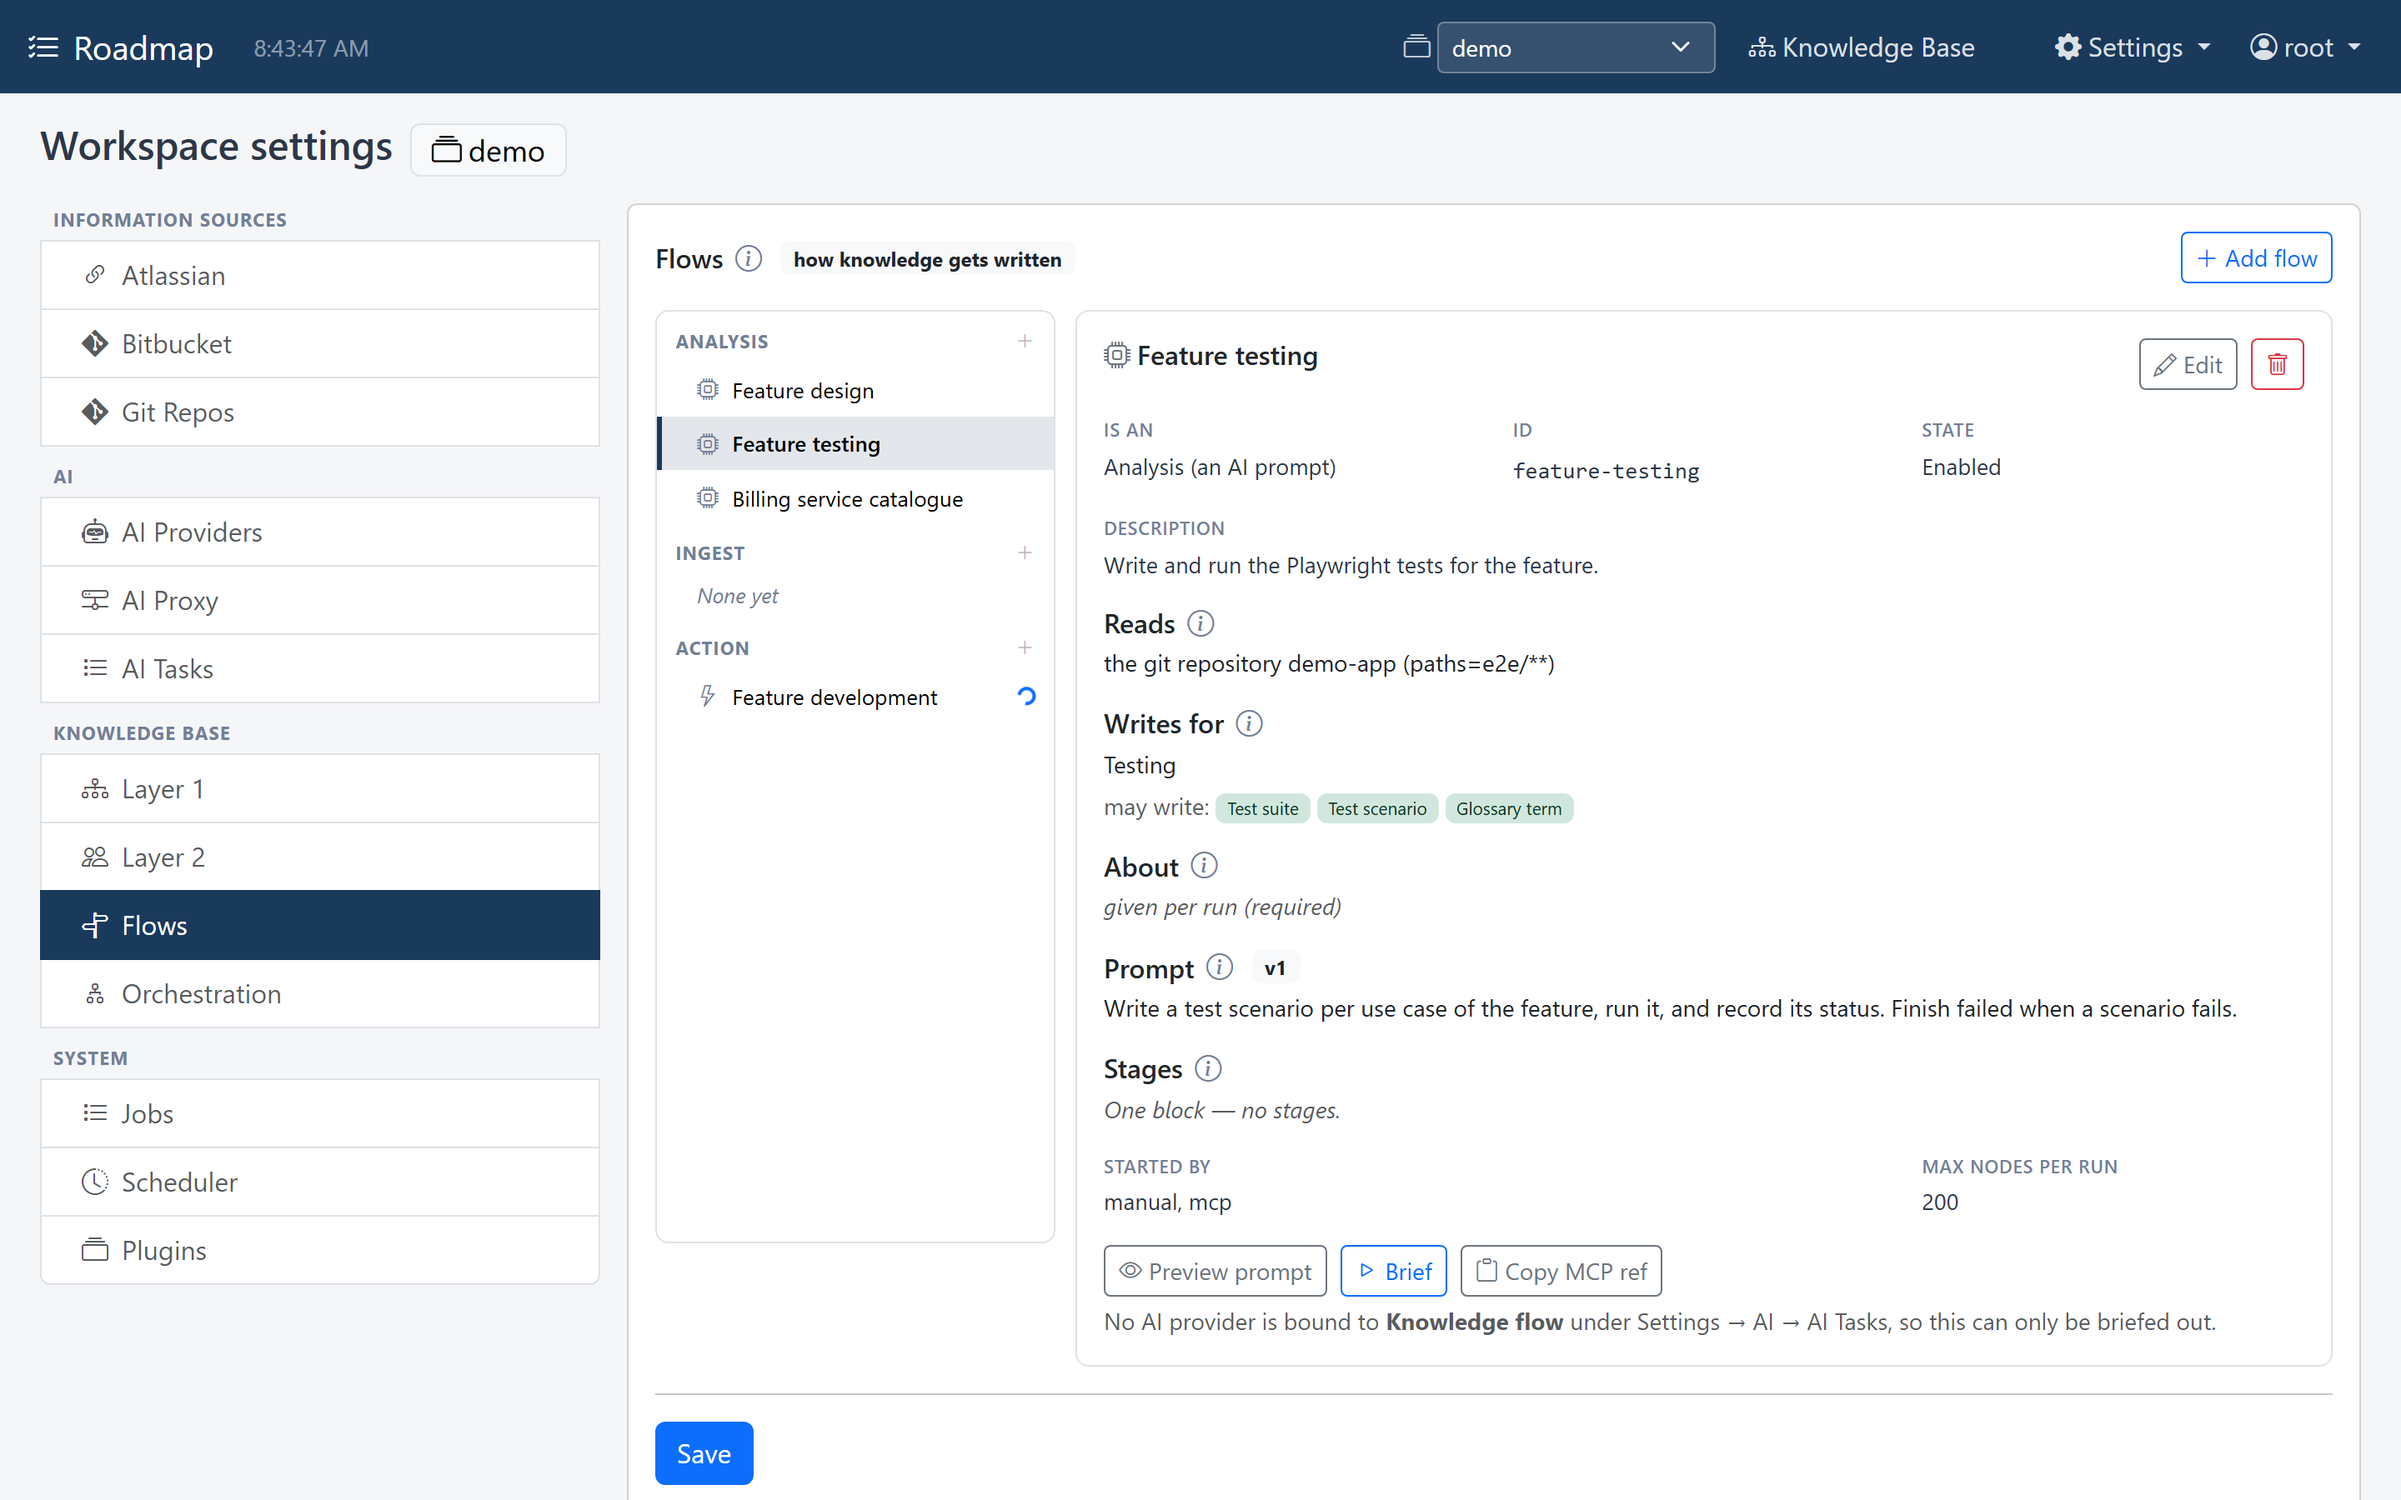
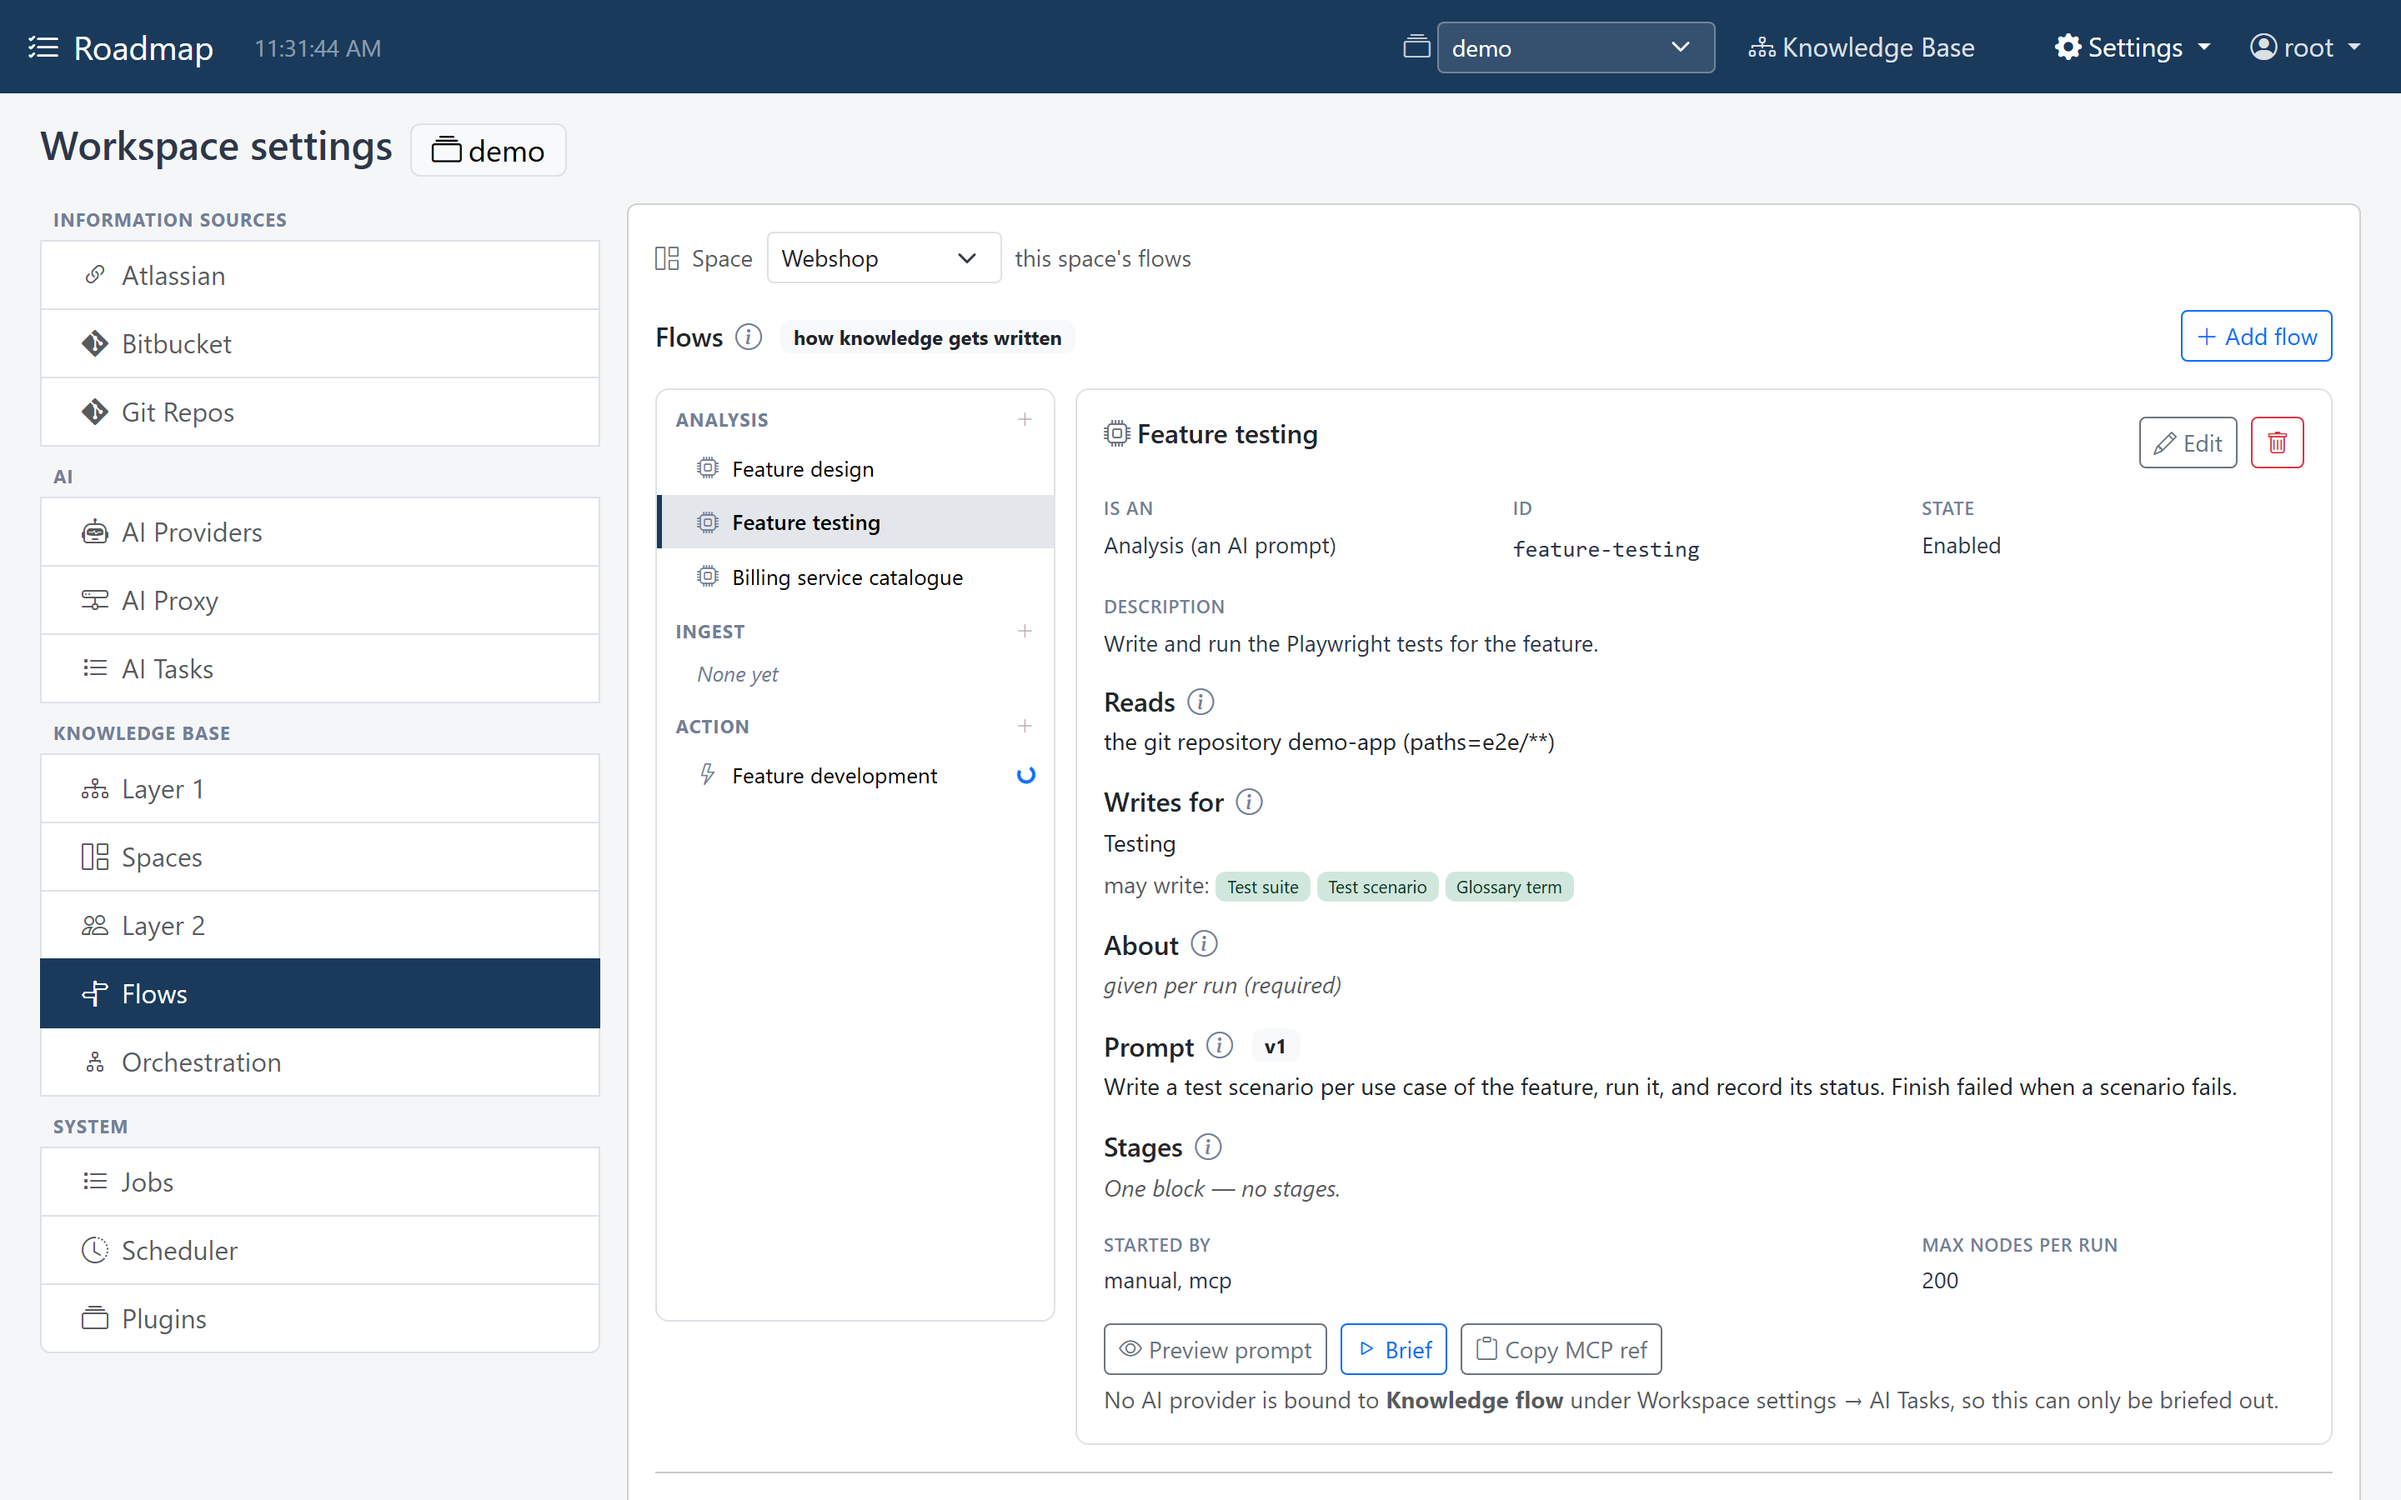
Spaces: screenshots of the Spaces tab, the space picker and a topic of another space
Layer 2, Flows and Orchestration retaken with the space picker.

Claude-Session: https://claude.ai/code/session_01M5AWqYz4eBseoEGpVu3Muj

diff --git a/docs/knowledge-base/spaces.md b/docs/knowledge-base/spaces.md
@@ -44,14 +44,24 @@ as two customers. Use spaces for teams that work on the same systems.
 With one space, the Knowledge Base page looks as before. Once there are two or
 more:
 
+![The Knowledge Base home page in the Payments team space](../images/kb-spaces/kb-home-spaces.png)
+
 - A **space picker** next to the search box switches the page to another space.
   The page reloads in it, the way switching workspace does, and the address carries
   the space as `?space=<id>`.
 - The home page names the space you are in, with its description, and links to the
   **other spaces**.
-- **All spaces**, next to the search box, searches the other spaces' topics too.
+- **All spaces**, next to the search box, adds the other spaces' topics to a
+  search. They show in the ground layer graph.
+
+    ![The space picker, the search box and All spaces](../images/kb-spaces/kb-toolbar-spaces.png){ width="558" }
+
+    ![Searching payment in all spaces: a topic of Payments team and two of Webshop](../images/kb-spaces/kb-all-spaces.png)
+
 - A topic of another space opens **read-only**, with *From the space ...: read-only
   here* and a link to **Open that space**.
+
+    ![A Webshop topic opened in the Payments team space](../images/kb-spaces/foreign-topic-details.png){ width="1056" }
 
 ## Set up spaces
 
@@ -60,6 +70,8 @@ needs the [admin role](../get-started/users.md#roles). On the left are the space
 with *current* next to the one you are in; on the right, the selected space: its id,
 its description, its personas and work breakdown, and how many flows and
 orchestrations it has.
+
+![Workspace settings, Knowledge Base, Spaces](../images/kb-spaces/spaces-tab.png)
 
 ### Add a space
 
@@ -70,6 +82,8 @@ away. A name already in use is refused: *There is already a space named "..."*.
 A new space gets an id made from its name, shown under the form: *Payments team*
 becomes `payments-team`. The id can't change later; renaming the space keeps it.
 
+![The New space form](../images/kb-spaces/space-form.png){ width="770" }
+
 A new space starts empty. Give it personas and topic types, or
 [install a pack](packs.md) in it.
 
@@ -79,12 +93,16 @@ A new space starts empty. Give it personas and topic types, or
 or more spaces, a space picker at their top switches space. On the *Spaces* tab,
 **Work in this space** does the same for the selected space.
 
+![The space picker at the top of Layer 2](../images/kb-spaces/layer2-space-picker.png){ width="1054" }
+
 ### Remove a space
 
 Select it, click the trash button next to **Edit**, and confirm. Its personas, topic
 types, flows and orchestrations go with it, and so do the topics written in it. The
 other spaces and the shared sources are not touched. The last space can't be
 removed.
+
+![The Remove space dialog](../images/kb-spaces/space-remove.png){ width="316" }
 
 ## From before spaces
 
